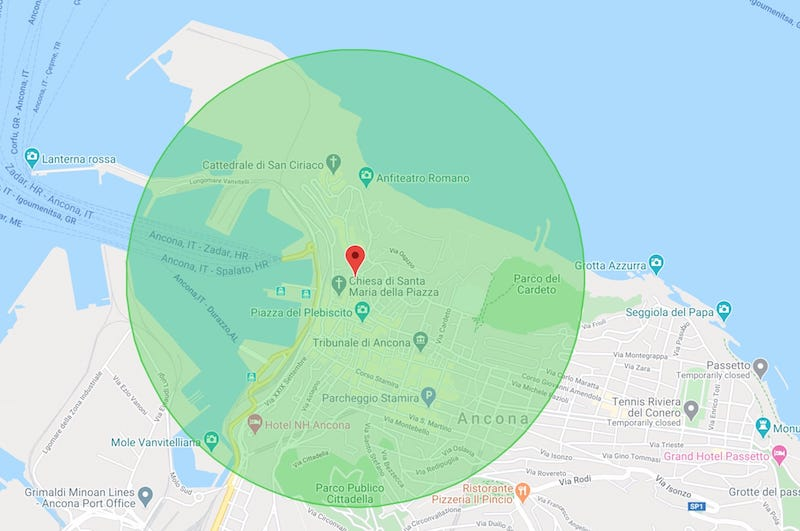
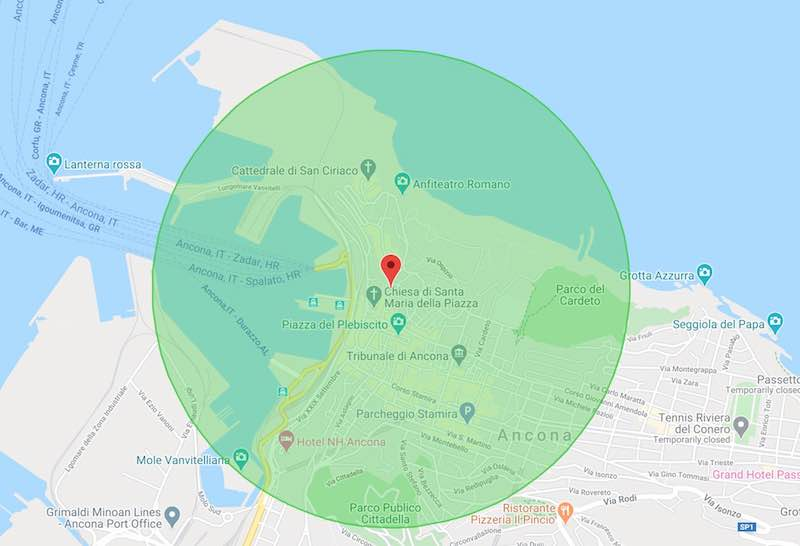
added map

diff --git a/styles.css b/styles.css
@@ -259,13 +259,21 @@ a:visited:hover {
   padding-bottom: 2em;
 }
 
+.Asporto > h2 {
+  padding-top: 0.5em;
+  padding-bottom: 0.5em;
+  float: left;
+}
+
 .servizio {
   width: 10%;
   float: left;
 }
 
 .mappa {
+  float: left;
   width: 70%;
+  border-radius: 5%;
   margin-bottom: 2em;
 }
 
@@ -341,9 +349,18 @@ a:visited:hover {
     padding-bottom: 0.5em;
   }
 
+  .Asporto > h2 {
+    float: none;
+  }
+
   .servizio {
     width: 20%;
     padding-left: 1em;
+  }
+
+  .mappa {
+    width: 90%;
+    float: none;
   }
 
   .footerdiv {

diff --git a/asporto.html b/asporto.html
@@ -77,7 +77,8 @@
           <p>Vengono accettate carte di credito e contanti</p>
           <img class="servizio" src="./svg/menu.svg">
           <p>Il nostro menù si trova cliccando <a href="https://app.resmio.com/matas-54/menu-widget?theme=dark">qui</a></p> 
-          
+         <h2>Consegna in Centro storico</h2>
+          <img class="mappa" src="Consegna.jpg" alt="Consegna nel raggio del Centro storico">
           
        </div>
        
